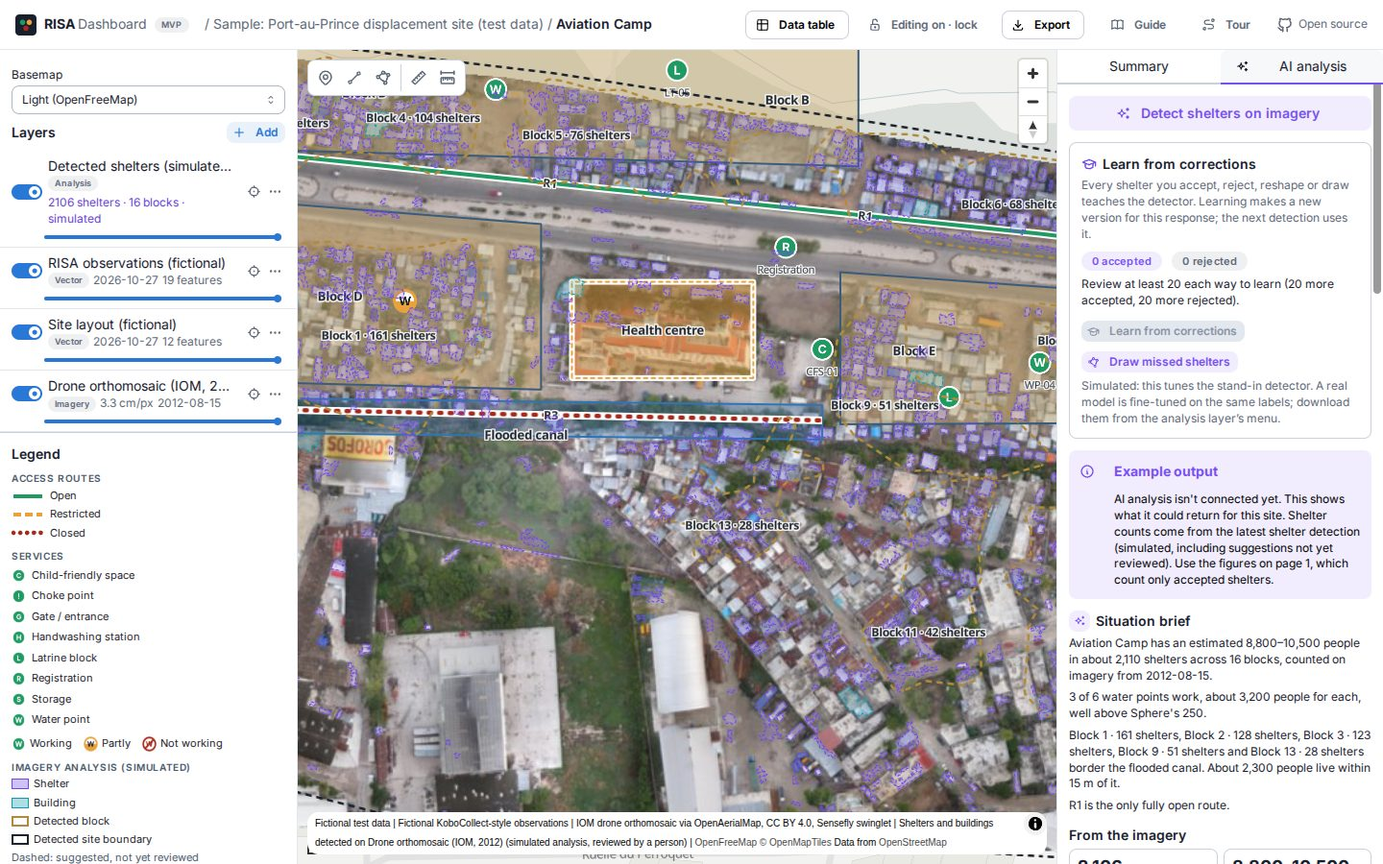
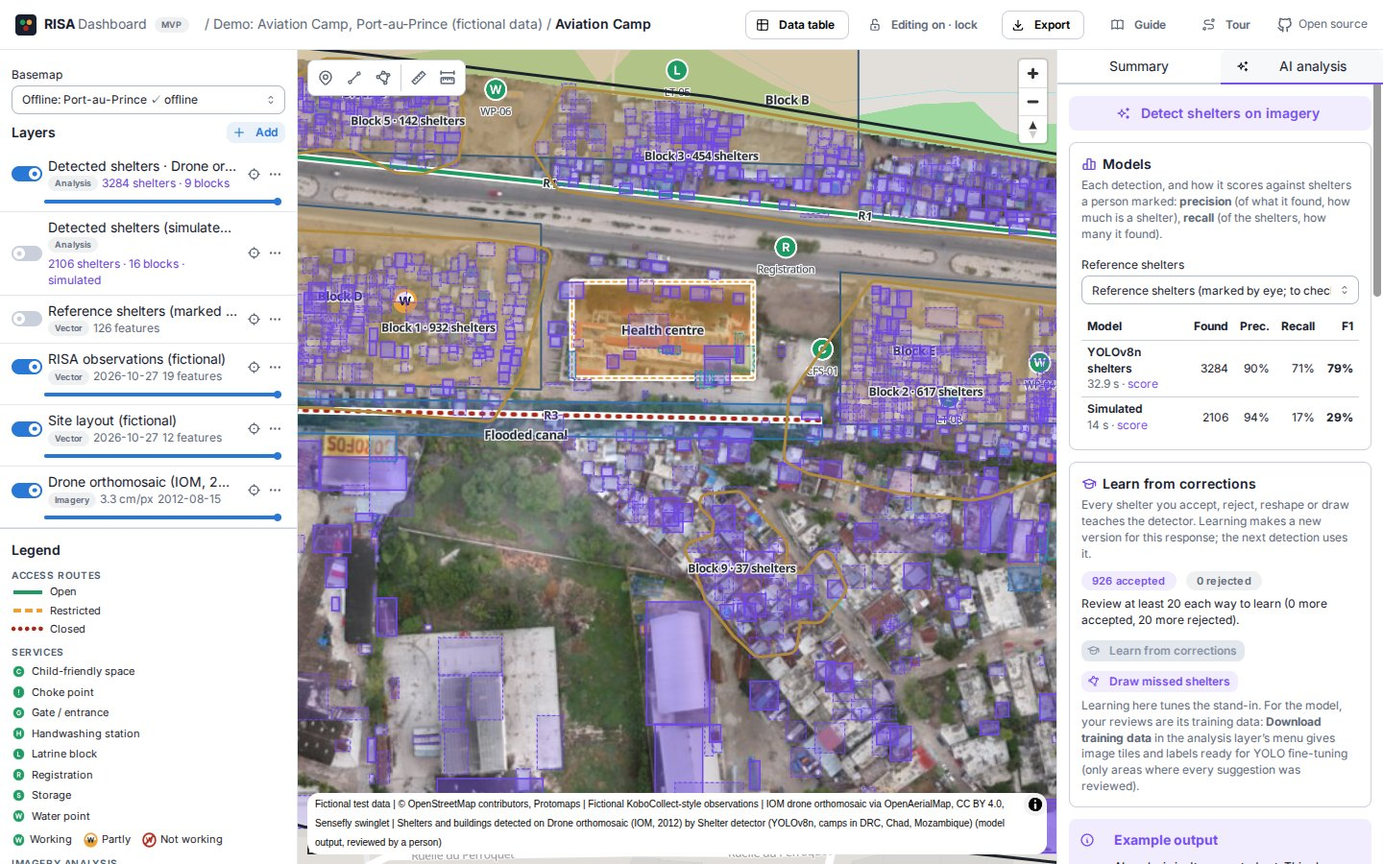
Pitch materials: model spec, partner brief, guide and docs on the real model
docs/models.md: the detector contract, today's detectors, the evaluation protocol and
the Haiti reference results, the training-data export, where models must run, and
what we'd build with a partner. docs/partner-brief.md: the problem, what exists, first
results with figures (docs/img/), what we'd do together, the constraints.

The user guide's imagery analysis section, notes and FAQ describe the model, the
Models card and reference shelters, and the training export; ai.jpg retaken
(scripts/guide-shots.py ONLY=ai). README, concept note, plan and the site tour no
longer call the analysis simulated; the concept note drops the bundled-fonts gap.

The offline e2e checks the shelter model is in the image and runs with no network.

Changed region(s): [[0.0, 0.0, 1.0, 1.0], [0.0, 0.0933, 0.1562, 0.1244], [0.3125, 0.6222, 0.4062, 0.6533]]

diff --git a/frontend/public/guide/index.html b/frontend/public/guide/index.html
@@ -84,7 +84,7 @@
   <li><strong>Runs where your data must stay</strong>On the consortium's instance, self-hosted on your own server, fully offline on a field kit, or (planned) as a network of kits with a hub.</li>
 </ul>
 <p>Everything belongs to a <strong>response</strong> (an emergency, such as "Venezuela: earthquake, June 2026"), and each response has <strong>sites</strong>. A site has its own map, layers, figures and printed products.</p>
-<div class="note"><p>This is the MVP. The map, imagery, Kobo, drawing, measuring, page 1, the locator maps and exports work. The imagery analysis (shelter detection) is <strong>simulated</strong>, a stand-in for a real model, and the analysis tab shows example output. Embedding the map in other websites is planned. Pages 2 and 3 of the RISA product are still to come.</p></div>
+<div class="note"><p>This is the MVP. The map, imagery, Kobo, drawing, measuring, page 1, the locator maps and exports work. The imagery analysis finds shelters with a real, open model trained on camp imagery, as suggestions for a person to review; a simulated stand-in remains for comparison, and the analysis tab's situation brief is example output. Embedding the map in other websites is planned. Pages 2 and 3 of the RISA product are still to come.</p></div>
 </section>
 
 <section id="run">
@@ -263,15 +263,20 @@
 
 <section id="ai">
 <h2>Imagery analysis</h2>
-<div class="note"><p>The detector is <strong>simulated</strong> for now. It uses simple colour rules on the real imagery and stands in for a real model, so the review workflow can be tried and improved. Don't report its counts as findings.</p></div>
-<p>Counting shelters on an orthomosaic by hand takes hours. In the <strong>AI analysis</strong> tab, <strong>Detect shelters on imagery</strong> finds shelters and buildings in the current view or the whole image, groups shelters into blocks and outlines the site.</p>
+<p>Counting shelters on an orthomosaic by hand takes hours. In the <strong>AI analysis</strong> tab, <strong>Detect shelters on imagery</strong> finds shelters and buildings in the current view or the whole image, groups shelters into blocks and outlines the site. Choose the <strong>model</strong>:</p>
+<ul>
+  <li><strong>Shelter detector (YOLOv8n)</strong>, an open model trained on drone imagery of camps in DRC, Chad and Mozambique. It's strongest on plastic-sheeting shelters, and needs imagery at 10 cm per pixel or finer. It finds most shelters that stand apart, and misses more where roofs run together.</li>
+  <li><strong>Simulated</strong>, simple colour rules standing in for a model. It's kept for comparison; don't report its counts as findings.</li>
+</ul>
+<p>Either way, a person checks the results before they count:</p>
 <ul>
   <li><strong>Every result is a suggestion</strong>, drawn dashed until a person accepts it. Accept or reject one at a time, or use <strong>⋯ › Review by confidence…</strong> to accept or reject everything above or below a level.</li>
   <li>Re-tag or reshape a suggestion like a drawn feature, and use <strong>Draw missed shelters</strong> for any it missed.</li>
   <li>Only <strong>accepted</strong> shelters count in the figures and on page 1.</li>
-  <li><strong>Learn from corrections:</strong> each accept, reject, reshape and missed shelter is kept. After 20 reviews each way, it trains a detector version for this response and reports its accuracy on reviews it didn't train on. <strong>Download training data</strong> exports the imagery and labels for training a real model.</li>
+  <li><strong>Learn from corrections:</strong> each accept, reject, reshape and missed shelter is kept. For the simulated detector, after 20 reviews each way, it trains a version for this response. For the model, your reviews are its training data: <strong>⋯ › Download training data</strong> gives the imagery, the labels and image tiles ready for fine-tuning, from the areas where every suggestion was reviewed.</li>
+  <li><strong>Models</strong> shows each detection with its model, and how it scores against <strong>reference shelters</strong>: a layer of shelters a person marked, one point each (draw them, or upload a file). <strong>Precision</strong> is the share of what it found that are shelters; <strong>recall</strong> the share of the shelters it found. Score a model on a few marked blocks before trusting its count on a new site.</li>
 </ul>
-<figure><a href="static/shots/ai.jpg"><img src="static/shots/ai.jpg" width="1440" height="900" alt="The AI analysis tab beside the map: Detect shelters on imagery, Learn from corrections with counts of accepted and rejected suggestions, and the example situation brief. On the map, detected shelters are outlined in violet and grouped into labelled blocks with dashed outlines."></a><figcaption>Detected shelters waiting for review.</figcaption></figure>
+<figure><a href="static/shots/ai.jpg"><img src="static/shots/ai.jpg" width="1440" height="900" alt="The AI analysis tab beside the map: Detect shelters on imagery, the Models card comparing the shelter model (precision 90%, recall 71%) with the simulated stand-in, and Learn from corrections. On the map, shelters the model found are outlined in violet and grouped into labelled blocks."></a><figcaption>Shelters found by the model, waiting for review, and the two models scored against reference shelters.</figcaption></figure>
 </section>
 
 <section id="page1">
@@ -411,7 +416,7 @@
   <li><strong>No personal accounts, no tracking, no analytics.</strong> Your browser keeps only the edit key, your layer and basemap choices for each site, and which tours you've seen. The edit key is stored on the server only as a hash.</li>
   <li><strong>Sensitive questions are left out.</strong> When you connect a Kobo project, list any question about a person (names, phone numbers, ages) under <strong>Left out (sensitive)</strong>. Those answers are never copied to the dashboard.</li>
   <li><strong>Kobo tokens</strong> are stored encrypted and sent only to their own Kobo server; they never reach a browser. <strong>Photos</strong> are fetched from Kobo when someone opens them, not stored in the dashboard.</li>
-  <li><strong>No AI company sees your data.</strong> The imagery analysis is simulated today and sends nothing anywhere. The planned models run on the kit, the hub, or a server rented from the same provider in the same region as the instance.</li>
+  <li><strong>No AI company sees your data.</strong> The shelter model runs on the dashboard's own server, the kit or the hub, and sends nothing anywhere. Larger models, when they come, run there too, or on a server rented from the same provider in the same region as the instance.</li>
   <li><strong>Feedback</strong> goes into a Kobo form that the response's owner chooses, under their control.</li>
 </ul>
 
@@ -478,7 +483,7 @@
 </details>
 <details>
   <summary>Is any of our data sent to an AI company?</summary>
-  <div><p>No. The imagery analysis is simulated today and runs on the dashboard's own server. The planned models are open-weight models on the kit, the hub, or a server from the same provider and region as the instance.</p></div>
+  <div><p>No. The shelter model is an open-weight model that runs on the dashboard's own server, or on the kit or hub offline. Later models will be open-weight too, on the same machines or a server from the same provider and region as the instance.</p></div>
 </details>
 <details>
   <summary>Are we locked in to the consortium's instance?</summary>

diff --git a/frontend/src/tours.ts b/frontend/src/tours.ts
@@ -126,7 +126,7 @@ export const siteTour = ({ showSummary, showAi }: { showSummary: () => void; sho
   {
     target: 'ai',
     title: 'AI analysis',
-    body: 'Detect shelters on the imagery, grouped into blocks with the site outlined. Every result is a suggestion to accept, reject or reshape; only accepted shelters count. Your corrections teach it: Learn from corrections makes a better version for this response. The detection is simulated for now.',
+    body: 'Detect shelters on the imagery, grouped into blocks with the site outlined. Every result is a suggestion to accept, reject or reshape; only accepted shelters count. Choose the model: an open shelter model trained on camp imagery, or the simulated stand-in. Models scores each against shelters a person marked, and your reviews become its training data.',
     side: 'left',
     before: showAi,
   },

diff --git a/scripts/guide-shots.py b/scripts/guide-shots.py
@@ -6,9 +6,10 @@ same response, which changes nothing.
     docker compose exec -T -e SLUG=<response> -e KEY=<edit-key> worker python - < scripts/guide-shots.py
     docker compose cp worker:/tmp/shots/. frontend/public/guide/static/shots/
 
-ONLY=bundle,bundle-import takes some of them. The guide's other shots (the site, a
-feature with its Kobo photo, the Kobo dialog, the summary, the data table, AI analysis
-and the page 1 editor) were taken by hand from the sample with the box's demo Kobo project
+ONLY=bundle,bundle-import takes some of them. "ai" needs the demo response
+(seed_sample.py --demo: SLUG=demo, its key). The guide's other shots (the site, a
+feature with its Kobo photo, the Kobo dialog, the summary, the data table and the page 1
+editor) were taken by hand from the sample with the box's demo Kobo project
 (kobo-in-a-box remote/risa/demo-kobo.py) connected.
 """
 import os
@@ -37,7 +38,7 @@ def want(name):
 def main():
     OUT.mkdir(exist_ok=True)
     with sync_playwright() as p:
-        b = p.chromium.launch(args=["--use-angle=swiftshader", "--enable-unsafe-swiftshader", "--no-sandbox"])
+        b = p.chromium.launch(args=["--use-angle=swiftshader", "--enable-unsafe-swiftshader", "--ignore-gpu-blocklist", "--no-sandbox"])
         page = b.new_page(viewport={"width": 1440, "height": 900})
         page.goto(BASE + "/")
         # Walkthroughs off: they start by themselves on a first visit
@@ -52,6 +53,14 @@ def main():
             page.get_by_label("Country (ISO3)").fill("VEN")
             page.get_by_label("GLIDE number").fill("EQ-2026-000093-VEN")
             shot(page, "new-response")
+
+        if want("ai"):
+            site = urllib.request.urlopen(f"{API}/api/responses/{SLUG}").read()
+            site_slug = __import__("json").loads(site)["sites"][0]["slug"]
+            page.goto(f"{BASE}/r/{SLUG}/{site_slug}", wait_until="networkidle")
+            page.get_by_role("tab", name="AI analysis").click()
+            page.wait_for_timeout(6000)
+            shot(page, "ai")
 
         bundle = "/tmp/sample.risa.zip"
         if want("bundle") or want("bundle-import"):

diff --git a/scripts/e2e.py b/scripts/e2e.py
@@ -120,6 +120,17 @@ def main():
         sys.exit("FAIL: empty site summary")
     ok("site summary")
 
+    # The shelter model is in the image and runs with no network (here, on a blank image: no shelters)
+    if not any(d["id"] == "yolo-shelters" and not d["unavailable"] for d in api.call("GET", "/config")["detectors"]):
+        sys.exit("FAIL: the shelter model isn't available in the image")
+    ortho = next(lyr for lyr in layers if lyr["kind"] == "raster")
+    run = api.call("POST", f"/layers/{ortho['id']}/analyse", {"detector": "yolo-shelters"})
+    run = wait("the shelter model", lambda: next((x for x in api.call("GET", f"/sites/{sid}")["layers"]
+                                                  if x["id"] == run["id"] and x["status"] != "processing"), None), 300)
+    if run["status"] != "ready":
+        sys.exit(f"FAIL: the shelter model: {run.get('error', '')[:1000]}")
+    ok(f"shelter model ran offline in {run['analysis']['seconds']} s")
+
     p = api.call("POST", f"/sites/{sid}/products", {
         "title": "Common Operational Picture", "code": "E2E01", "page_size": "A3",
         "key_message": "End-to-end test.",
@@ -160,7 +171,8 @@ def main():
         api.call("PUT", f"/uploads/{u['id']}/parts/{n}", raw=bundle[n * u["chunk_size"]:(n + 1) * u["chunk_size"]])
     t = api.call("POST", f"/uploads/{u['id']}/complete")
     t = wait("the bundle import", lambda: (x := api.call("GET", f"/transfers/{t['id']}"))["status"] != "processing" and x, 300)
-    if t["status"] != "ready" or t["result"]["created"] or t["result"]["layers"] != 2:
+    layers = api.call("GET", f"/sites/{sid}")["layers"]
+    if t["status"] != "ready" or t["result"]["created"] or t["result"]["layers"] != len(layers):
         sys.exit(f"FAIL: bundle import: {t['error'][:2000] or t['result']}")
     after = api.call("GET", f"/sites/{sid}")["layers"]
     if sorted(lyr["id"] for lyr in after) != sorted(lyr["id"] for lyr in layers):

diff --git a/docs/models.md b/docs/models.md
@@ -1,0 +1,101 @@
+# Imagery analysis: models, training data and evaluation
+
+For research partners and model developers. How a model plugs into the RISA Dashboard, what training data the dashboard produces, how models are scored, and where they have to run. The partner-facing summary is [`partner-brief.md`](partner-brief.md).
+
+## What the analysis does
+
+A responder uploads a drone orthomosaic of a displacement site (typically 2–10 cm/px, 0.1–5 km²). **Detect shelters on imagery** cuts the area of interest from it, runs a detector, and stores what comes back as *suggestions*: shelters and buildings, each with a class, a confidence and the model that made it. The dashboard then groups shelters into blocks (DBSCAN on centroids, concave hulls) and outlines the site, both in PostGIS, whatever the detector.
+
+Nothing counts until a person reviews it. Suggestions are dashed on the map and in print; reviewers accept, reject, re-tag or reshape them one at a time or in bulk by confidence, and draw shelters the model missed. Only accepted shelters count towards the figures RISA publishes (shelters counted on imagery, shelters per block, people estimates). Every review is kept: it is a label.
+
+```
+orthomosaic (COG) ──read_aoi──▶ RGB array at the detector's GSD ──detector──▶ candidates
+   ──▶ suggestions (PostGIS) ──review──▶ accepted / rejected / edited / added
+   ──▶ figures, page 1 ─┐
+   ──▶ evaluation ◀─────┼── reference shelters
+   ──▶ training data ───┘   (Ultralytics YOLO tiles + GeoJSON)
+```
+
+## The detector contract
+
+Code: [`backend/risa/detectors/`](../backend/risa/detectors/__init__.py). A detector is a Python class registered at import:
+
+| Attribute / method | |
+|---|---|
+| `id`, `label`, `short` | Stored on every feature it makes; shown in the dashboard |
+| `simulated` | True for stand-ins; their output is marked as such everywhere |
+| `gsd` | Metres per pixel it wants the image at (the dashboard resamples) |
+| `max_pixels` | Above this, the area is read coarser, to stay within memory |
+| `available()` | `""` if it can run on this instance, else why not (missing weights, packages) |
+| `detect(rgb, valid, georef, tmp, report)` | Returns a list of `Candidate` |
+
+Inputs: `rgb` is `uint8 [h, w, 3]`; `valid` is `bool [h, w]` (inside the image); `georef` has the GDAL geotransform in EPSG:3857 (`gt`), metres per pixel in Web Mercator units (`tr`) and the Web Mercator scale at the site (`k`, ground metres × k = Web Mercator units); `report(step, pct)` updates the progress the dashboard shows.
+
+Output: `Candidate(geom, cls, confidence, area_m2, stats)`, with `geom` a Polygon in EPSG:4326, `cls` `"shelter"` or `"building"`, `confidence` 0–1, and `stats` anything worth keeping with the feature (the model's own class, the box in pixels).
+
+The dashboard handles tiling the reading, storage, review, blocks, the boundary, figures, print, exports and evaluation. A model only has to turn pixels into scored polygons. Weights live in `MODELS_DIR` (`/opt/models` in the image), fetched and checked by [`scripts/fetch-models.sh`](../scripts/fetch-models.sh) at build time, or copied in for an offline box.
+
+## Detectors today
+
+| id | What | Licence | GSD | Speed (0.5 km², CPU) |
+|---|---|---|---|---|
+| `simulated` | Colour rules on the image: bright grey roofs and blue tarps. A stand-in, so the workflow could be built before a model | AGPL-3.0 (ours) | 25 cm | 14 s |
+| `yolo-shelters` | YOLOv8n fine-tuned on drone imagery of camps around Goma (DRC), in Chad and in Mozambique ([alex6H/RefugeeCampShelterDetection-YOLOv8](https://github.com/alex6H/RefugeeCampShelterDetection-YOLOv8)). 15 classes; dwelling, hut, shelter (formal, informal) and tent count as shelters, building as building. Boxes, axis-aligned | MIT; trained with Ultralytics (AGPL-3.0) | 9 cm | 33 s (multi-core laptop) |
+
+`yolo-shelters` runs with ONNX Runtime on 1024 px tiles overlapping by 192 px, with a confidence floor of 0.05, and suppresses boxes that overlap a more confident one (IoU ≥ 0.4) or lie mostly inside one (≥ 60 % of their area): across tile edges the model returns a roof whole and again in part. 9 cm and the 0.05 floor did best of 5, 7 and 9 cm and floors of 0.05 and 0.15 on the reference chips below.
+
+## Evaluation
+
+Code: [`backend/risa/evaluation.py`](../backend/risa/evaluation.py); in the dashboard, the **Models** card in the AI analysis tab; on the command line, `manage.py evaluate <analysis layer> <reference layer>`.
+
+- **Reference**: a layer of shelters a person marked (one point per shelter) or outlined (polygons), plus, optionally, the areas they looked at (polygons with `properties.role = "area"`), which may hold no shelters at all (open ground, to count false alarms).
+- **Scored area**: those areas; else a given box; else the reference's outline grown by 5 m. Detections are in if their point-on-surface is; references if they intersect.
+- **Matching**: one to one, most confident detection first. A reference point is matched by a detection that contains it; a reference outline by the detection overlapping it most, if IoU ≥ 0.3.
+- **Measures**: precision, recall, F1, count error, and **wrong and confident**: the share of detections at ≥ 0.75 confidence that are wrong, because a model's errors look as sure as its successes to a reviewer. All of them at confidence thresholds 0 to 0.9, so the operating point can be chosen.
+- **Raw output** is scored, whatever the reviews, so corrections don't flatter the model.
+
+Point matching is lenient for boxes (a loose box containing the shelter's centre counts); outlines with IoU are the stricter test once a reference has them.
+
+### The Haiti reference (indicative)
+
+[`scripts/sample/haiti-reference-shelters.geojson`](../scripts/sample/haiti-reference-shelters.geojson), on IOM's 2012 orthomosaic of Aviation Camp, Port-au-Prince (3.3 cm/px, CC BY 4.0, via OpenAerialMap): three areas of about 37 × 37 m, shelters marked as points **by eye, by Claude, on 4 cm/px chips, not yet checked by a person**. 99 shelters inside the areas.
+
+| Area | Ground | Shelters | simulated P / R / F1 | yolo-shelters P / R / F1 |
+|---|---|---|---|---|
+| 1 | Sheet-metal shelters standing apart | 42 | 1.00 / 0.21 / 0.35 | 0.92 / 0.81 / 0.86 |
+| 2 | Dense, roofs running together | 57 | 1.00 / 0.16 / 0.27 | 1.00 / 0.60 / 0.75 |
+| 3 | Warehouse, concrete, trees, a car | 0 | no false alarms | 1 false alarm, low confidence |
+| All, from a whole-image run | | 100 | 0.94 / 0.17 / 0.29 | 0.90 / 0.71 / 0.79 |
+
+What it says: off the shelf, a model trained on plastic-sheeting shelters in DRC transfers to Haitian sheet-metal shelters with high precision but misses about three in ten, mostly where roofs run together. That is the gap fine-tuning on reviewed labels from the context should close. Caveats: a small reference, marked by eye by a model rather than a person, and the settings were picked on the same chips, so the numbers are optimistic until there's a separate, person-checked test set; one site, one season, one image.
+
+## Training data
+
+**Download training data** in an analysis layer's menu (`GET /api/layers/{id}/training-data.zip`):
+
+| File | |
+|---|---|
+| `image.tif` | The area of interest, a COG (EPSG:3857) |
+| `labels.geojson` | Shelters and buildings people accepted, corrected (`source: edited`) or drew (`added`): positives, as polygons |
+| `negatives.geojson` | Suggestions people rejected: hard negatives |
+| `aoi.geojson` | The area analysed |
+| `yolo/images/*.jpg`, `yolo/labels/*.txt`, `yolo/data.yaml` | 1024 px tiles at the detector's GSD with `class cx cy w h` boxes (0 shelter, 1 building): ready for `yolo detect train data=yolo/data.yaml` |
+| `meta.json` | The model, GSD, counts and its latest evaluation |
+
+Only **fully reviewed** tiles go into `yolo/`: tiles where every suggestion was accepted, corrected or rejected, so an unlabelled roof in a tile really is background. Bulk review by confidence counts as review, but those labels are the model's own calls confirmed wholesale, not a person's one by one (the dashboard doesn't record which yet). Over a response, the dashboard's reviews add up to thousands of labels from the exact imagery and shelter types of that context.
+
+## Where models have to run
+
+- **Online**, on the consortium's instance (DigitalOcean App Platform; the worker is 1 vCPU, 2 GB today), or an on-demand GPU droplet in the same region for big sites. No outside AI provider: imagery of displacement sites is sensitive.
+- **Self-hosted** on a national authority's server, often with no GPU.
+- **Fully offline** on a kobo-in-a-box field kit: CPU, or a consumer GPU on the hub (an RTX-class card), shared with Kobo and local language models. Weights travel in the kit's content pack.
+- So: CPU inference in minutes for a site is the bar; ONNX (or a small PyTorch) model; a licence that allows redistribution inside an AGPL-3.0 tool by governments and NGOs (no non-commercial or research-only weights); a few hundred MB at most.
+
+## What we'd like to build with a partner
+
+1. **A person-checked benchmark**: outlines of every shelter in reference areas from several sites, contexts and seasons (Haiti, Venezuela's stadium camp, Mozambique resettlement sites, Cox's Bazar), with a fixed test split.
+2. **Outlines, not boxes**: a segmenter, or SAM 2 prompted with the detector's boxes, so shelter footprints (and their areas) are right.
+3. **Fine-tuning from reviews**: a training service that takes a response's fully reviewed tiles, fine-tunes from the base or previous version on a GPU, evaluates on the fixed test split, and registers the version only if it beats the last (per site and overall); versions per response, with model cards.
+4. **Active learning**: reviewers shown the suggestions the model is least sure of first, so each review teaches it most.
+5. **More classes**: latrines, water points, standing water, debris, roads and paths, to check against the KoboCollect observations.
+6. **Sharing across responses with consent**: a base model improved with labels from many responses, each response keeping its own version; labels pooled only with the data owner's agreement.

diff --git a/docs/partner-brief.md b/docs/partner-brief.md
@@ -1,0 +1,71 @@
+# Counting shelters from drone imagery in the first days of a response
+
+**A research partnership on the RISA Dashboard's imagery analysis**
+
+Brief for prospective AI research partners · RISA consortium (HI/Atlas Logistique, MapAction, Kobo) · November 2026 · technical detail in [`models.md`](models.md)
+
+---
+
+## The problem
+
+In the first days after an earthquake, flood or cyclone, coordinators need to know, for each displacement site, how many people are there, whether they can be reached, and which services still work. RISA (Rapid Infrastructure and Service Assessment) answers with drone imagery, direct observation recorded in KoboCollect, and GIS, printed as one page people can brief from in a minute.
+
+The number everything else hangs on, how many shelters (and so how many people), still comes from a person digitising roofs on an orthomosaic: hours per site, in the days when every hour counts. Off-the-shelf building models don't fit: displacement sites are tents, tarps and sheet metal, packed tight, different in every context, and imaged at 2–10 cm from a drone rather than 50 cm from a satellite.
+
+## What exists today
+
+The **RISA Dashboard** is a working, open-source tool (AGPL-3.0), running for testing at **https://risa-dash.kobolabs.dev/r/demo** (a demo on IOM's 2012 imagery of Aviation Camp, Port-au-Prince; everything but the imagery is fictional). The same software runs self-hosted by a national authority, and fully offline on a field kit.
+
+Imagery analysis is built in, with a person in the loop:
+
+1. A responder uploads the orthomosaic and presses **Detect shelters**. A detector finds shelters and buildings; the dashboard groups shelters into blocks and outlines the site.
+2. Everything comes back as a **suggestion**, dashed on the map, with its confidence. Reviewers accept, reject, reshape or re-tag, one by one or in bulk by confidence, and draw what was missed.
+3. Only **accepted** shelters count on the printed product. Every review is kept as a **label**.
+4. **Download training data** turns the reviewed areas into a ready-to-train dataset (image tiles with YOLO labels, plus polygons and hard negatives).
+5. The **Models** card scores each detector against reference shelters, side by side.
+
+![The dashboard's AI analysis tab: detections from the shelter model on the map, and the Models card comparing it with the stand-in.](img/dashboard-ai.jpg)
+
+The detector is a plug-in: a model turns pixels into scored polygons, and the dashboard does the rest (tiling, storage, review, blocks, figures, print, exports, evaluation). Two are in today: a colour-rule stand-in, used to build the workflow, and a **real baseline**, an open YOLOv8n model fine-tuned by Alexis ([alex6H](https://github.com/alex6H/RefugeeCampShelterDetection-YOLOv8), MIT licence) on drone imagery of camps in DRC, Chad and Mozambique, running on CPU: about half a minute for a 0.5 km² site on a laptop, a few minutes on the hosted instance's small worker.
+
+## First results
+
+On three areas of about 37 × 37 m of the Haiti image, shelters marked as points (indicative: marked by eye by an AI assistant, not yet checked by a person; 99 shelters):
+
+| | Precision | Recall | F1 |
+|---|---|---|---|
+| Colour-rule stand-in | 0.94 | 0.17 | 0.29 |
+| **Shelter model (YOLOv8n), off the shelf** | **0.90** | **0.71** | **0.79** |
+
+Where shelters stand apart it finds four in five (F1 0.86); where sheet-metal roofs run together it finds three in five (F1 0.75); on open ground, one low-confidence false alarm.
+
+| Shelters standing apart | Dense, roofs running together |
+|---|---|
+| ![Yellow boxes: the model's detections; green crosses: reference shelters.](img/eval-chip-apart.jpg) | ![The same, in a dense block: several crosses without a box are missed shelters.](img/eval-chip-dense.jpg) |
+
+*Yellow: the model's detections. Green: shelters marked as reference. A cross with no box is a missed shelter.*
+
+A model trained on plastic-sheeting shelters in DRC transfers to Haitian sheet-metal shelters with high precision but misses about three in ten, mostly in dense blocks. That gap is what fine-tuning on reviewed labels from the context is for, and the dashboard already produces those labels as people work.
+
+![RISA page 1 printed from the shelters accepted after detection.](img/page1-demo.jpg)
+
+## What we'd do together
+
+In order of what would change practice soonest:
+
+1. **A benchmark people trust.** Person-checked outlines of every shelter in reference areas from several contexts and seasons (Haiti, Venezuela's stadium camp, Mozambique resettlement sites, Cox's Bazar), with a fixed test split and the dashboard's evaluation (precision, recall, count error, and the share of confident detections that are wrong).
+2. **Outlines, not boxes.** A segmenter, or SAM 2 prompted with the detector's boxes, so footprints and their areas are right.
+3. **Fine-tuning from reviews.** A training service that takes a response's reviewed tiles, fine-tunes on a GPU, evaluates on the fixed split, and registers a new version only if it beats the last, per site and overall, with a model card for each.
+4. **Active learning.** Reviewers see the suggestions the model is least sure of first, so each review teaches it most.
+5. **More classes.** Latrines, water points, standing water, debris, paths: things to check against the KoboCollect observations, and the next figures on page 1.
+
+## The constraints that make it interesting
+
+- **Runs where the data must stay.** On a national authority's server, often without a GPU, or fully offline on a field kit. CPU inference in minutes per site is the bar; ONNX or small PyTorch models; weights that can be redistributed inside an AGPL tool by governments and NGOs (no non-commercial or research-only licences).
+- **People decide.** Suggestions are never counted until accepted; confidence and the model are kept on every feature and in every export; a model's confident mistakes are measured, because they're the ones reviewers miss.
+- **Sensitive imagery.** Displacement sites are where vulnerable people live. Labels and imagery are pooled for training only with the data owner's agreement; the default is a model per response, trained where the data is.
+- **Every context is new.** The test of a method is how fast it adapts to the next emergency from a few hundred reviews, not its score on one dataset.
+
+## What we bring, what we'd ask
+
+We bring a working, open tool in responders' hands, the review workflow that turns their work into labels, the consortium's field access and imagery (MapAction, HI/Atlas Logistique), and deployment from the cloud to offline kits (Kobo). We'd ask for modelling expertise, GPU time for fine-tuning and evaluation, and help building the benchmark. Everything built would be open source, and the models open-weight under a licence that lets authorities run them themselves.

diff --git a/README.md b/README.md
@@ -17,8 +17,8 @@ Stack: Django 5.2 + GeoDjango + PostGIS, Django Ninja, Procrastinate (Postgres j
 - **Page 1**: frame the map, set title, code, version, authority, key message and at-a-glance figures (computed, overridable, TBC flags). A second QR code goes to the feedback form, when one is set. Locator maps are optional: the area round the site, and a country overview joined to it by leader lines (as on MapAction's maps), on the map's corner or at the top of the side panel. The worker renders the map and locators in headless Chromium at 300 dpi, and [Typst](backend/risa/typst/page1.typ) lays out the page around them: vector text, legend symbols as SVG, about 1.4 MB for an A3. The editor's preview is a low-resolution draft of the same render. Page labels in English, Spanish and French follow the response's language. Versions are kept.
 - **Data table**: the records of a Kobo or vector layer under the map, with photos (a template image when there's none), search and a status filter. A row frames the feature on the map.
 - **AI analysis (example output only)**: a tab showing what an imagery and field-data model could return: a situation brief, shelters and people per block, findings checked against Sphere standards (water per person and distance, flood exposure, access, data quality), suggested priorities, and notes on photos. Nothing runs a model yet; [`frontend/src/analysis.ts`](frontend/src/analysis.ts) makes the output from the site's data, and the shelter counts are made up.
-- **Imagery analysis (simulated)**: in the AI analysis tab, **Detect shelters on imagery** finds shelters and buildings on the orthomosaic (current view or the whole image), groups shelters into blocks and outlines the site, with a progress spinner while it runs. Results are suggestions: dashed until a person accepts them, one at a time or by confidence; they can be re-tagged and reshaped like drawn features, and only accepted shelters count on page 1. The detector is a stand-in (colour rules on the real image, [`risa/analysis.py`](backend/risa/analysis.py)) for a segmentation model; see the plan.
-- **Learning from corrections (simulated)**: every accept, reject, reshape and hand-drawn missed shelter is kept as a label. **Learn from corrections** in the AI analysis tab trains a new detector version for the response (once there are 20 reviews each way) and reports its accuracy on reviews held back from training, next to the built-in rules; the next detection uses it. **Download training data** exports the imagery and labels for fine-tuning a real model. [`risa/learning.py`](backend/risa/learning.py).
+- **Imagery analysis**: in the AI analysis tab, **Detect shelters on imagery** finds shelters and buildings on the orthomosaic (current view or the whole image) with a chosen detector, groups shelters into blocks and outlines the site, with progress while it runs. Detectors are plug-ins ([`risa/detectors/`](backend/risa/detectors/__init__.py)): **YOLOv8n shelters**, an open model trained on camp drone imagery in DRC, Chad and Mozambique ([alex6H](https://github.com/alex6H/RefugeeCampShelterDetection-YOLOv8), MIT), on CPU with ONNX Runtime, weights pinned in the image ([`scripts/fetch-models.sh`](scripts/fetch-models.sh)); and the **simulated** colour rules, kept for comparison. Results are suggestions: dashed until a person accepts them, one at a time or by confidence; they can be re-tagged and reshaped like drawn features, and only accepted shelters count on page 1. **Models** scores each run against a layer of reference shelters (precision, recall, F1, the share of confident detections that are wrong, at each threshold; [`risa/evaluation.py`](backend/risa/evaluation.py), `manage.py evaluate`). On 99 shelters marked by eye in the Haiti sample ([`scripts/sample/`](scripts/sample/haiti-reference-shelters.geojson)): F1 0.79 for the model, 0.29 for the stand-in. The contract, training data and evaluation for model partners: [`docs/models.md`](docs/models.md).
+- **Learning from corrections**: every accept, reject, reshape and hand-drawn missed shelter is kept as a label. For the simulated detector, **Learn from corrections** trains a new version for the response (once there are 20 reviews each way) and reports its accuracy on reviews held back from training; the next detection uses it. For a model, **Download training data** exports the imagery, labels and hard negatives as GeoJSON, and fully reviewed areas as 1024 px tiles with Ultralytics YOLO labels, ready for fine-tuning. [`risa/learning.py`](backend/risa/learning.py).
 - **User guide** at `/guide/`, linked as **Guide** in the app bar: setup, imagery, Kobo, the map, page 1, offline and low bandwidth, a response checklist and questions, with screenshots. A static page ([`frontend/public/guide/`](frontend/public/guide/index.html)) in the kobotoolbox.org style shared with kobo-dash, kobo-field-forms and kobo-in-a-box (`home.css`, fonts bundled), so it works offline.
 - **Walkthrough**: each page (home, response, site) has a short tour that highlights its parts in turn. It starts by itself the first time someone opens that kind of page, and again from **Tour** in the header, or with `?tour` on any link for demos. The wording is in [`frontend/src/tours.ts`](frontend/src/tours.ts).
 - **Export**: a GeoPackage of every vector layer (GeoPackage 1.2, opens in QGIS and ArcGIS Pro); GeoJSON and CSV per layer (⋯ menu) or every layer in a zip (Export menu), the CSV for spreadsheets (type and status in words, longitude/latitude, WKT, every field, UTF-8 with BOM for Excel); the COG and the original upload per layer. Each table's QGIS style is in the GeoPackage's `layer_styles` table, so QGIS opens it as the map draws it: page 1's point symbols, status colours and line styles, fills by type, analysis results dashed until accepted, and labels; a rule per type and status in the table, so the legend lists only what's there. [`risa/qml.py`](backend/risa/qml.py). Checked in QGIS 3.42; ArcGIS Pro ignores QGIS styles.

diff --git a/docs/concept-note.md b/docs/concept-note.md
@@ -35,7 +35,7 @@ The same software runs in four ways, chosen per response by whoever is responsib
 |---|---|---|---|
 | **The consortium's instance** (risa-dash.kobolabs.dev) | A cloud provider's data centre in Frankfurt, in the EU | Yes | Running |
 | **Self-hosted** by a national authority or an organisation | Its own server or cloud account, in the country if required | Only for its users to reach it | Built: one Docker set-up for every target |
-| **Offline on a field kit** (Kobo in a box) | The kit, in the team's hands | None | Built, not yet tried on a kit; offline map labels still to bundle |
+| **Offline on a field kit** (Kobo in a box) | The kit, in the team's hands | None | Built, not yet tried on a kit |
 | **Federated**: several kits, a hub at base, and optionally the cloud | Each kit; then the hub; then the cloud, only what the focal point chooses | None between kits; a link only to reach the cloud | Planned |
 
 What makes this possible:
@@ -154,7 +154,7 @@ RISA records infrastructure and services, not people. But imagery of a displacem
 - No personal accounts, and no tracking or analytics. Editing a response needs a shared edit key, stored only as a hash.
 - Questions marked sensitive when a Kobo project is connected (names, phone numbers, anything about a person) are never copied to the dashboard.
 - Kobo access tokens are stored encrypted and sent only to their own Kobo server. Photos are fetched through the dashboard when someone opens them, not stored in it.
-- No imagery, observation or photo is sent to an outside AI company. Today's analysis is simulated; the planned models run on the kit, the hub or, for the hosted instance, a server rented from the same provider in the same region.
+- No imagery, observation or photo is sent to an outside AI company. The shelter model runs on the dashboard's own server, the kit or the hub; larger models will run there too or, for the hosted instance, on a server rented from the same provider in the same region.
 
 **Who can see it.** Viewing a site is open to anyone with its link, so the map can be shared with partners in the first hours; links aren't listed by search engines. An instance can require the edit key for viewing too. Imagery and printed pages are served at long, unguessable addresses, so a file whose address has been shared can be opened by anyone who has it; for the most sensitive responses, a national server or a kit keeps even that inside the authority's network.
 
@@ -189,11 +189,11 @@ The MVP is running at **risa-dash.kobolabs.dev** with real drone imagery (IOM's 
 | Locator maps and the feedback QR code and link | Working; the consortium's feedback form is still to be written in Kobo |
 | Sharing a site's live map by link | Working |
 | Embedding in partners' dashboards and websites (e.g. the Virtual OSOCC) | Planned: an embed view, links that keep the view, a per-response switch and a list of allowed sites, and a fixed link to the latest page 1. About 1–2 weeks of development |
-| Self-hosting and the offline box | Built: one Docker set-up for the cloud, a national server and a kit, with offline basemaps and the user guide on the box. Not yet tried on a kit, and the map's label fonts still come from the internet |
+| Self-hosting and the offline box | Built: one Docker set-up for the cloud, a national server and a kit, with offline basemaps and the user guide on the box. Not yet tried on a kit |
 | Encrypted transfer files and an imagery archive | Planned, with several kits and a hub |
-| Imagery analysis and review | Working end to end, with a **simulated** detector (simple colour rules standing in for a model), so the review workflow can be tried now |
-| Learning from corrections | Working end to end on the simulated detector; corrections are kept as training data and can be exported |
-| A real segmentation model, and fine-tuning it on corrections | Planned: choose and test a model on the Venezuela and Mozambique orthomosaics, then a training service on a GPU |
+| Imagery analysis and review | Working end to end with an open shelter model trained on camp imagery (YOLOv8n, on CPU) and a simulated stand-in for comparison; each scored against reference shelters (F1 0.79 and 0.29 on an indicative Haiti sample) |
+| Learning from corrections | Corrections are kept as training data and export ready for fine-tuning (YOLO tiles and labels); the learning loop runs end to end on the simulated detector |
+| Outlines, fine-tuning on corrections, a person-checked benchmark | Planned, ideally with a research partner ([`partner-brief.md`](partner-brief.md)): a segmenter for footprints, a training service on a GPU, test sets from Venezuela, Mozambique and Haiti |
 | AI on the kit's local models (brief, key message, photo checks) | Planned; an example of the AI analysis output is shown in the dashboard today, made from the site's data without a model |
 | Several kits and a hub | Planned; moving a whole response between instances as one file is designed |
 | The assistant and support help | Planned, on the tools and models Kobo-in-a-box has already tested offline |

diff --git a/plans/mvp.md b/plans/mvp.md
@@ -321,6 +321,8 @@ Automatic segmentation of the orthomosaic for each camp or area of interest, bui
 
 Run them with ONNX Runtime on the worker (CPU, slow but simple), on a GPU droplet for big sites, or on the box's GPU offline. The interface, data model and review workflow stay the same whichever model wins: the model replaces one function.
 
+**Since 11/11/2026, a real baseline:** detectors are plug-ins (`risa/detectors/`), with an open YOLOv8n shelter model trained on camp drone imagery (DRC, Chad, Mozambique) running on CPU with ONNX Runtime, next to the simulated one; an evaluation against reference shelters (`risa/evaluation.py`, the Models card); and training data exported as YOLO tiles. On 99 shelters marked by eye in the Haiti sample, F1 0.79 against 0.29. The contract and protocol for partners: `docs/models.md`; the brief: `docs/partner-brief.md`.
+
 **MVP: simulated.** `risa/analysis.py` implements the whole pipeline and review workflow with a stand-in detector: colour rules on the real image (bright grey roofs and blue tarps as shelter candidates, large bright roofs as buildings). Its outlines sit on real objects, so reviewing them is realistic, but counts are not reliable. Every feature and the layer say "simulated", and the dialog says so before it runs. On the Haiti sample (0.5 km², 3.3 cm/px) it finds about 2,100 shelter candidates, 22 buildings and 15 blocks in about 10 s locally.
 
 ### Learning from corrections (fine-tuning)
